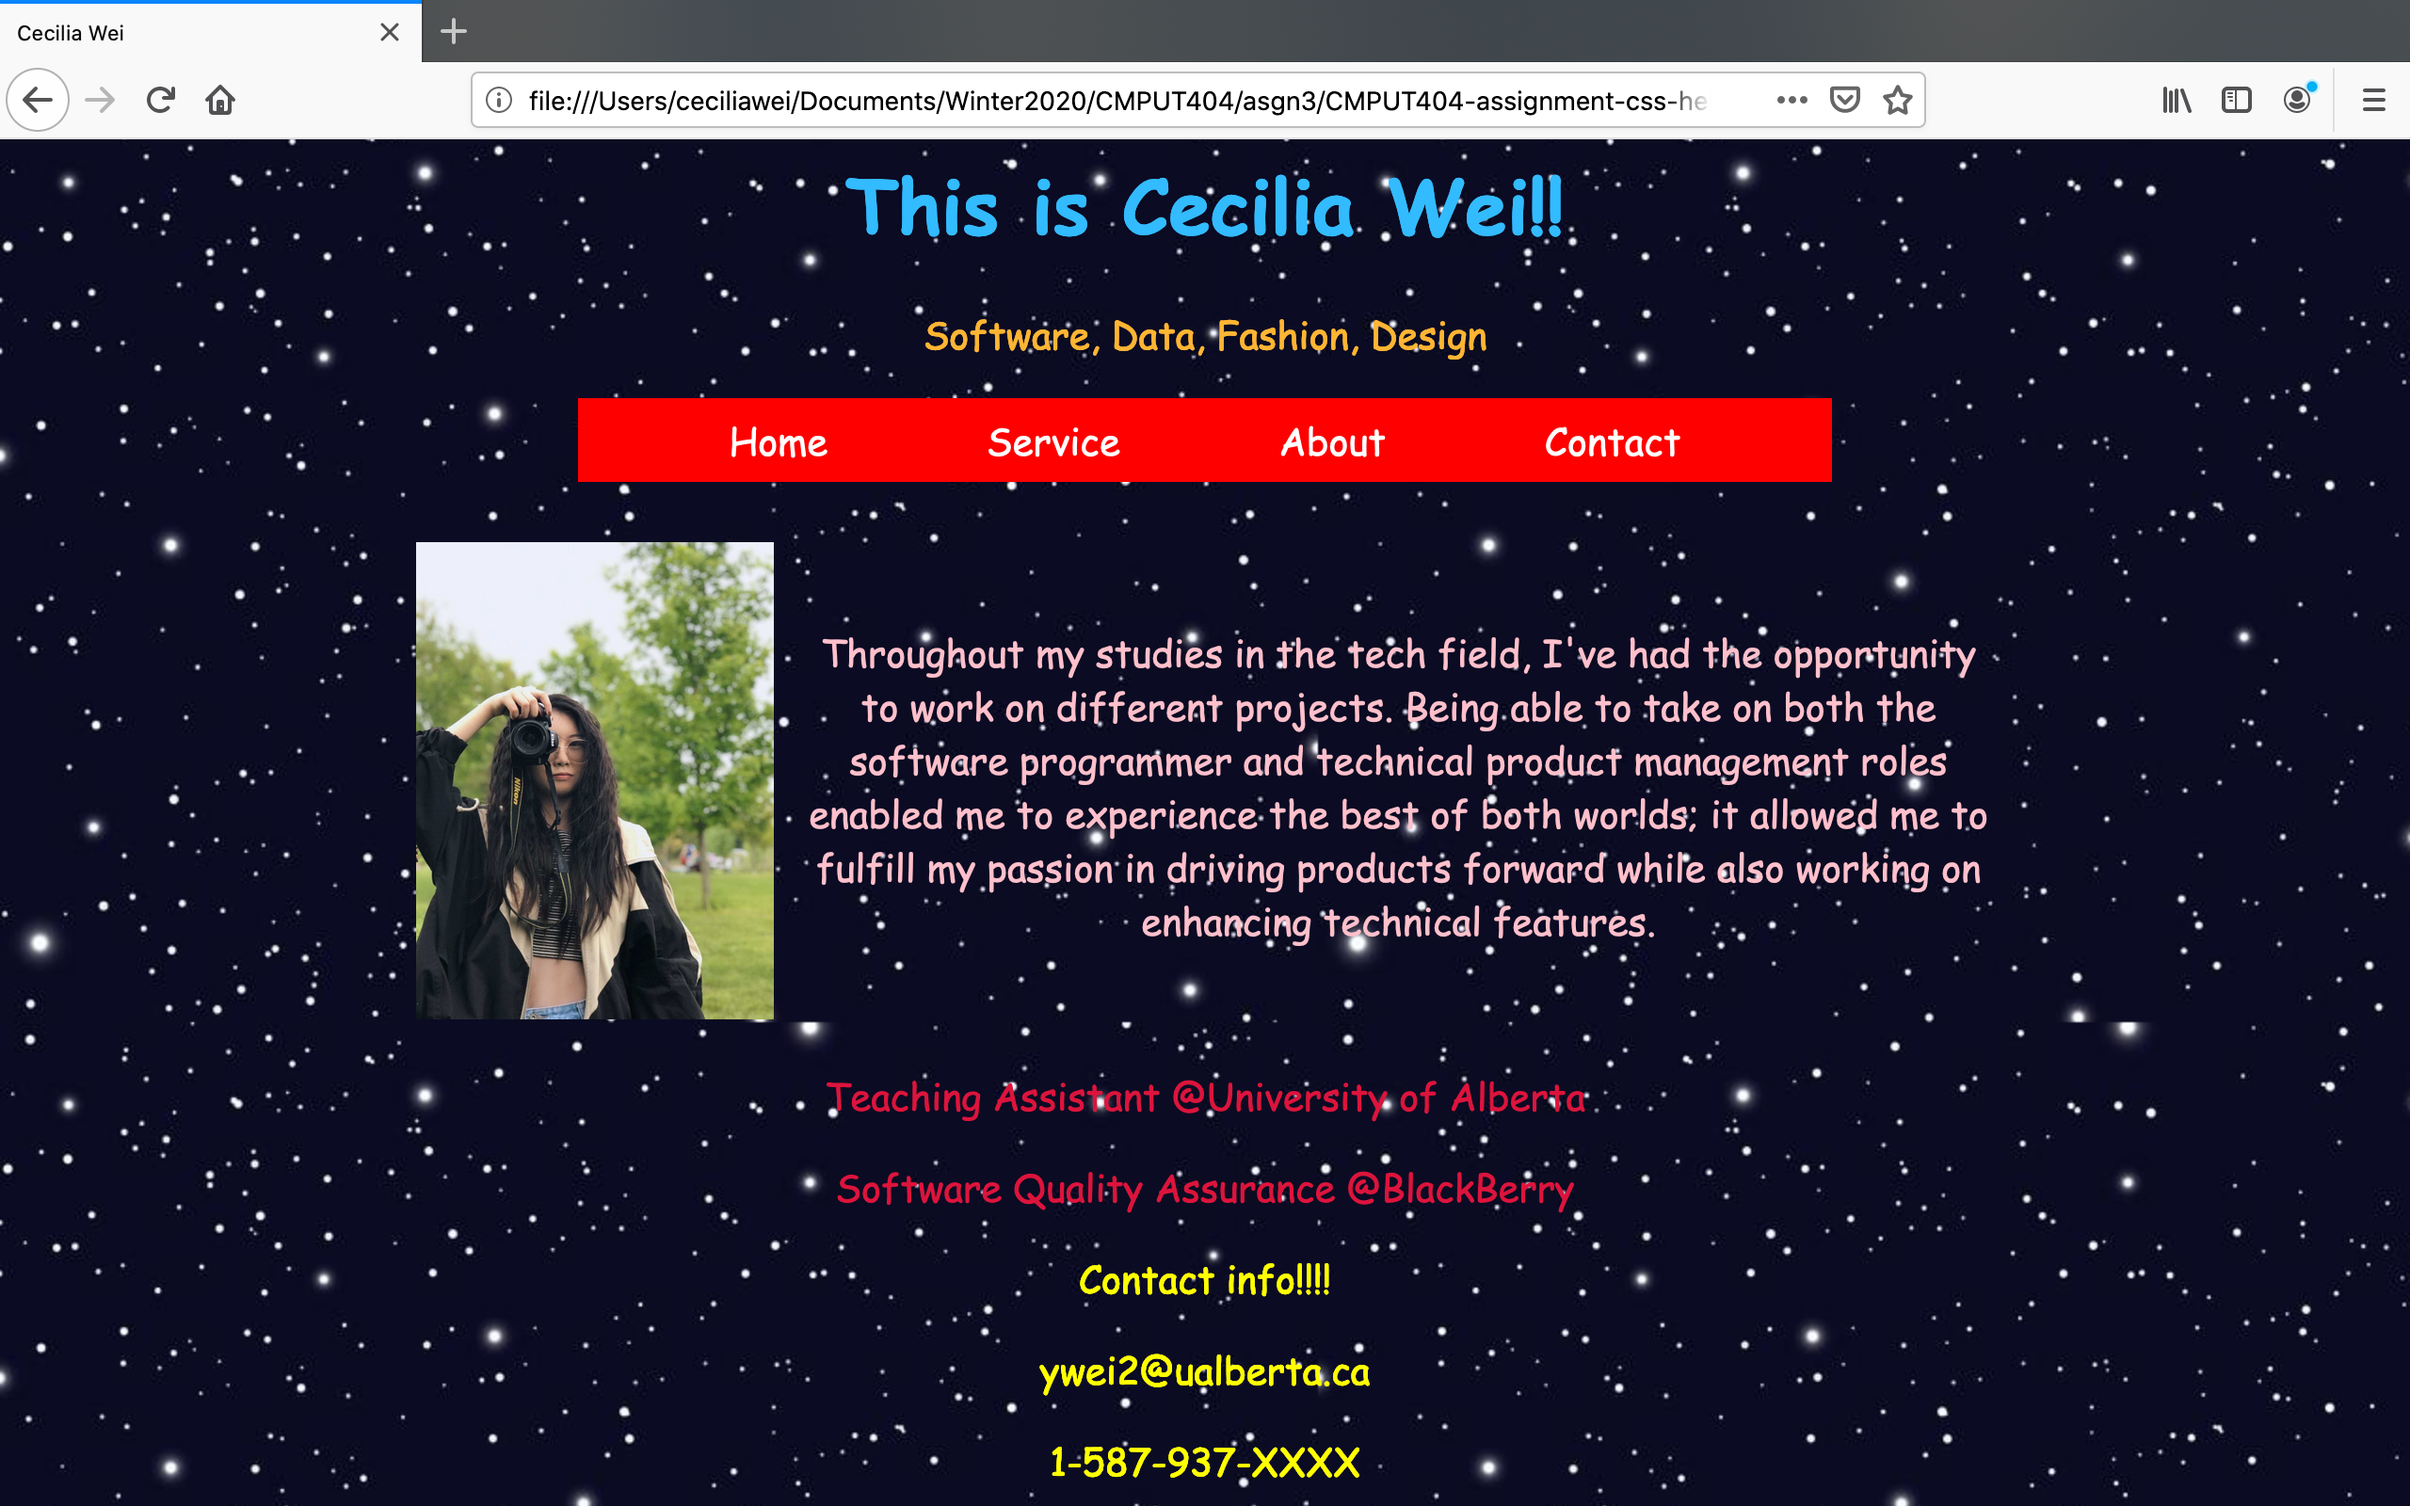
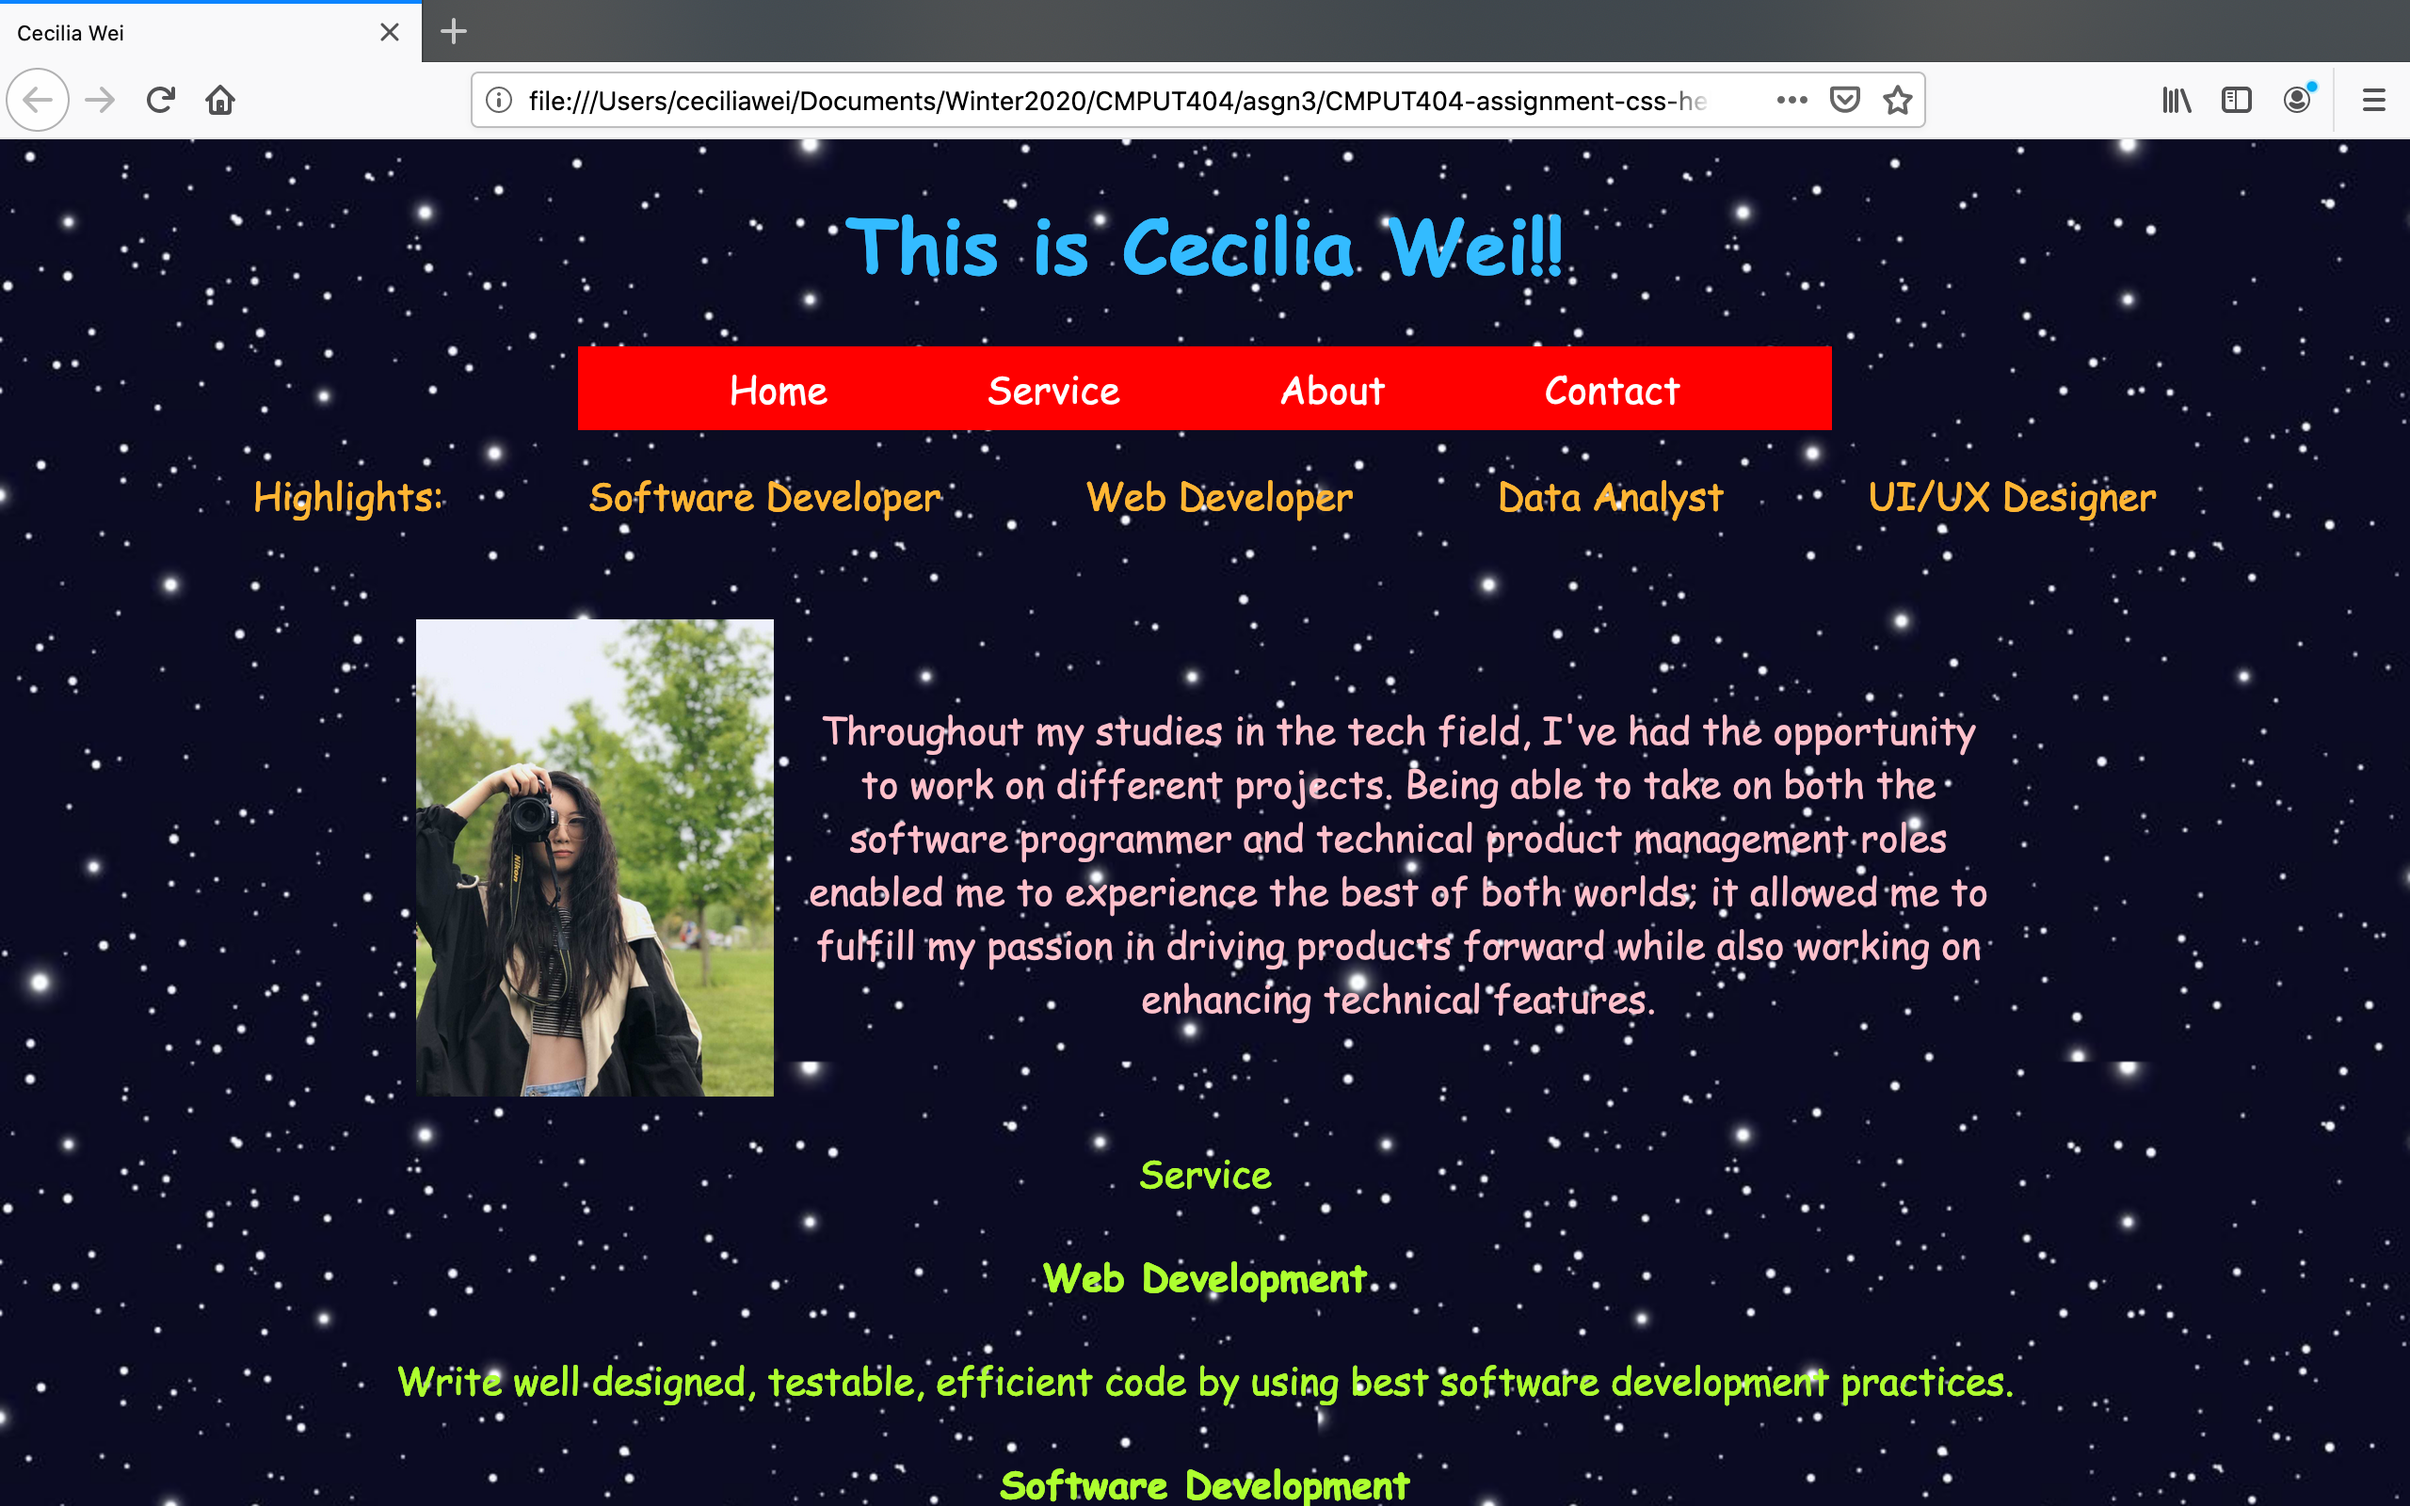
done

diff --git a/homepage/css/good.css b/homepage/css/good.css
@@ -1,0 +1,116 @@
+body {
+    text-align: justify;
+    margin: 0px;
+    padding: 0px;
+}
+
+header {
+    position: relative;
+    display: inline-flex;
+    justify-content: center;
+    align-items: center;
+    flex-direction: column;
+    width: 100%;
+    height: 10rem;
+    background: #314755;
+    /* fallback for old browsers */
+    background: -webkit-linear-gradient(to top, #26a0da, #314755);
+    /* Chrome 10-25, Safari 5.1-6 */
+    background: linear-gradient(to top, #26a0da, #314755);
+    /* W3C, IE 10+/ Edge, Firefox 16+, Chrome 26+, Opera 12+, Safari 7+ */
+}
+
+h1 {
+    background: linear-gradient(to bottom, #ffffff 0%, #BEA6A0 100%);
+    -webkit-background-clip: text;
+    -webkit-text-fill-color: transparent;
+}
+
+.bar {
+    display: inline-flex;
+    position: absolute;
+    padding-top: 0.5rem;
+    padding-bottom: 0.5rem;
+    bottom: 0;
+    width: 100%;
+    justify-content: space-around;
+    align-items: center;
+    background: #232526;
+    /* fallback for old browsers */
+    background: -webkit-linear-gradient(to bottom, #414345, #232526);
+    /* Chrome 10-25, Safari 5.1-6 */
+    background: linear-gradient(to bottom, #414345, #232526);
+    /* W3C, IE 10+/ Edge, Firefox 16+, Chrome 26+, Opera 12+, Safari 7+ */
+    /* bottom: 3rem; */
+}
+
+.bar>a {
+    text-decoration: none;
+    color: white;
+    font-size: 14pt;
+}
+
+.highlights {
+    width: 20%;
+    position: absolute;
+    right: 0;
+    background-color: gainsboro;
+    padding-bottom: 2rem;
+    text-align: center;
+    margin-right: 6rem;
+}
+
+
+/* .highlights :first-child {
+    margin-bottom: 2rem;
+    font-size: 20pt;
+    font-weight: 600;
+} */
+
+.container {
+    padding-top: 2rem;
+    width: 80%;
+    padding-left: 6rem;
+}
+
+.img-container {
+    width: 20%;
+}
+
+img {
+    width: 100%;
+}
+
+.text-img-area {
+    display: inline-flex;
+    flex-wrap: wrap;
+    flex-direction: row;
+    justify-content: left;
+    align-items: center;
+}
+
+.intro {
+    padding-left: 3rem;
+    text-align: justify;
+    display: block;
+    width: 40%;
+    height: auto;
+    word-wrap: break-word;
+    white-space: normal;
+}
+
+.highlights :first-child,
+.history>p:first-of-type,
+.contact>p:first-of-type,
+.service>p:first-of-type {
+    margin-top: 2rem;
+    margin-bottom: 2rem;
+    font-size: 20pt;
+    font-weight: 600;
+    text-decoration: underline;
+    color: #314755;
+}
+
+.history {
+    text-align: start;
+}

diff --git a/homepage/good.html b/homepage/good.html
@@ -1,0 +1,65 @@
+<!DOCTYPE html>
+<html>
+
+<head>
+    <title>Cecilia Wei</title>
+    <link rel="stylesheet" type="text/css" href="./css/good.css">
+</head>
+
+<body>
+    <header>
+        <h1>This is Cecilia Wei!!</h1>
+        <div class="bar">
+            <a href="#">Home</a>
+            <a href="#">Service</a>
+            <a href="#">About</a>
+            <a href="#">Contact</a>
+        </div>
+    </header>
+    <div class="highlights">
+        <p>Highlights:</p>
+        <p>Software Developer</p>
+        <p>Web Developer</p>
+        <p>Data Analyst</p>
+        <p>UI/UX Designer</p>
+    </div>
+    <div class="container">
+        <div class="text-img-area">
+            <div class="img-container">
+                <img src="./assets/photo.jpg" alt="photo" />
+            </div>
+            <div class="intro">
+                <p>Throughout my studies in the tech field, I've had the opportunity to work on different projects. Being able to take on both the software programmer and technical product management roles enabled me to experience the best of both worlds;
+                    it allowed me to fulfill my passion in driving products forward while also working on enhancing technical features.
+                </p>
+            </div>
+        </div>
+        <div class="service">
+            <p>Service</p>
+            <div class="services-content">
+                <h4>Web Development</h4>
+                <p>Write well designed, testable, efficient code by using best software development practices.</p>
+            </div>
+            <div class="services-content">
+                <h4>Software Development</h4>
+                <p>Front End Developer who primarily focuses on writing clean, elegant and efficient code.</p>
+            </div>
+            <div class="services-content">
+                <h4>Graphic Design</h4>
+                <p>UI/UX Designer with a passion for crafting clean and user-friendly experiences.</p>
+            </div>
+        </div>
+        <div class="history">
+            <p>History</p>
+            <p>Teaching Assistant @University of Alberta</p>
+            <p>Software Quality Assurance @BlackBerry</p>
+            <div />
+            <div class="contact">
+                <p>Contact info!!!!</p>
+                <p>ywei2@ualberta.ca</p>
+                <p>1-587-937-XXXX</p>
+                <div />
+            </div>
+</body>
+
+</html>

diff --git a/homepage/ugly.html b/homepage/ugly.html
@@ -1,0 +1,65 @@
+<!DOCTYPE html>
+<html>
+
+<head>
+    <title>Cecilia Wei</title>
+    <link rel="stylesheet" type="text/css" href="./css/ugly.css">
+</head>
+
+<body>
+    <header>
+        <h1>This is Cecilia Wei!!</h1>
+        <div class="bar">
+            <a href="#">Home</a>
+            <a href="#">Service</a>
+            <a href="#">About</a>
+            <a href="#">Contact</a>
+        </div>
+    </header>
+    <div class="highlights">
+        <p>Highlights:</p>
+        <p>Software Developer</p>
+        <p>Web Developer</p>
+        <p>Data Analyst</p>
+        <p>UI/UX Designer</p>
+    </div>
+    <div class="container">
+        <div class="text-img-area">
+            <div class="img-container">
+                <img src="./assets/photo.jpg" alt="photo" />
+            </div>
+            <div class="intro">
+                <p>Throughout my studies in the tech field, I've had the opportunity to work on different projects. Being able to take on both the software programmer and technical product management roles enabled me to experience the best of both worlds;
+                    it allowed me to fulfill my passion in driving products forward while also working on enhancing technical features.
+                </p>
+            </div>
+        </div>
+        <div class="service">
+            <p>Service</p>
+            <div class="services-content">
+                <h4>Web Development</h4>
+                <p>Write well designed, testable, efficient code by using best software development practices.</p>
+            </div>
+            <div class="services-content">
+                <h4>Software Development</h4>
+                <p>Front End Developer who primarily focuses on writing clean, elegant and efficient code.</p>
+            </div>
+            <div class="services-content">
+                <h4>Graphic Design</h4>
+                <p>UI/UX Designer with a passion for crafting clean and user-friendly experiences.</p>
+            </div>
+        </div>
+        <div class="history">
+            <p>History</p>
+            <p>Teaching Assistant @University of Alberta</p>
+            <p>Software Quality Assurance @BlackBerry</p>
+            <div />
+            <div class="contact">
+                <p>Contact info!!!!</p>
+                <p>ywei2@ualberta.ca</p>
+                <p>1-587-937-XXXX</p>
+                <div />
+            </div>
+</body>
+
+</html>

diff --git a/homepage/css/ugly.css b/homepage/css/ugly.css
@@ -9,8 +9,15 @@ h1 {
     color: #33BBFF;
 }
 
-.service-text {
+.highlights {
     color: #FFB533;
+}
+
+.highlights {
+    width: 80%;
+    display: inline-flex;
+    justify-content: space-between;
+    flex-wrap: wrap;
 }
 
 .bar {
@@ -62,6 +69,10 @@ img {
 
 .history {
     color: crimson;
+}
+
+.service {
+    color: greenyellow;
 }
 
 .contact {

diff --git a/README.md b/README.md
@@ -36,3 +36,5 @@ References
 
 * Gutenberg background image
 [Image by mohamed Hassan from Pixabay](https://pixabay.com/illustrations/paper-background-texture-template-2500380/)
+* CSS gradient templates
+[UI Gradients](https://uigradients.com/)
